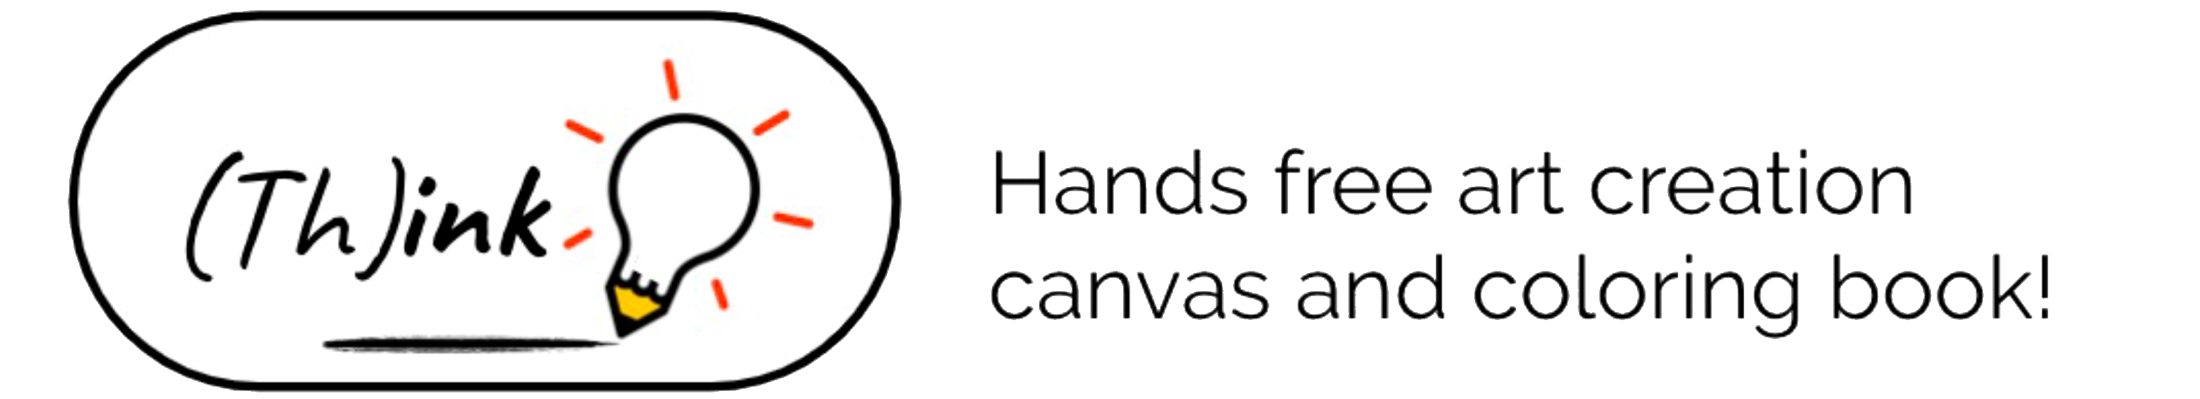
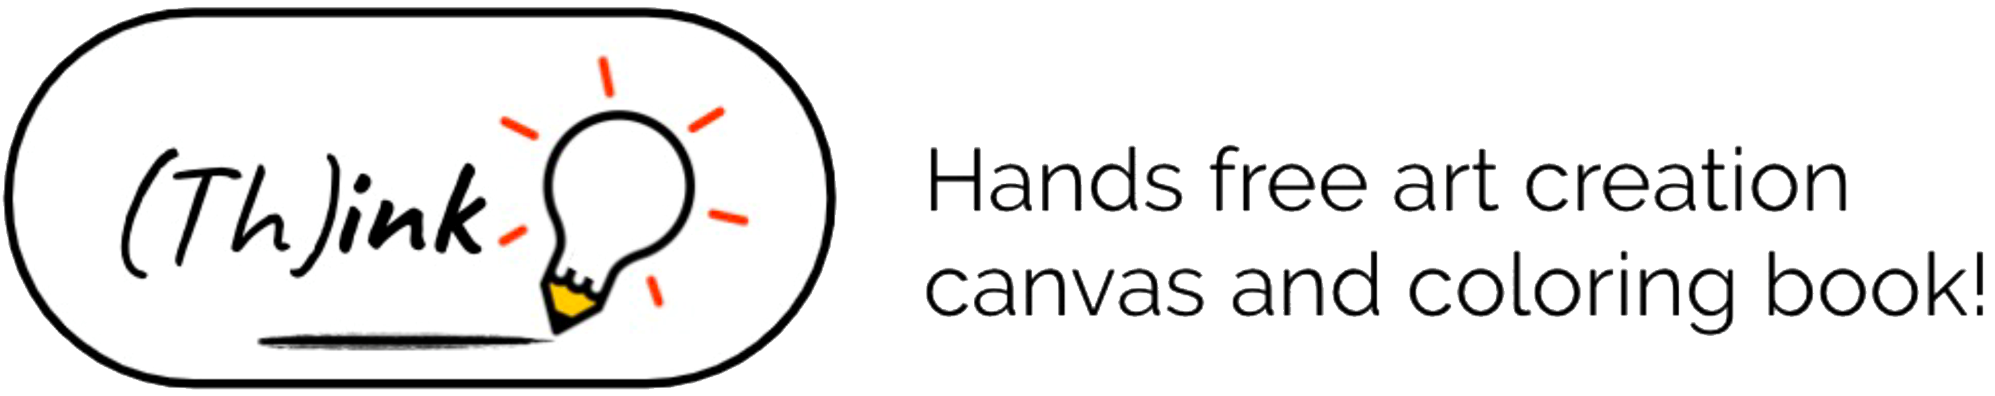
Added Bob Ross and fixed some button formatting

Changed region(s): [[0.0, 0.0, 0.9945, 1.0], [0.2797, 0.1515, 0.3108, 0.2424]]

diff --git a/demo/src/index.js b/demo/src/index.js
@@ -64,12 +64,11 @@ class Demo extends Component {
         {/* <p>Try it out! Draw on this white canvas:</p> */}
         {/* <CanvasDraw onChange={() => console.log("onChange")} /> */}
         <img src="demo/TransparentRounded.png" alt="(Th)ink Logo" 
-        width="70%" height="70%"  
+        width="60%" height="60%"  
         >
           
         </img>
-        <h2>
-        </h2>
+
         {/* <p>
           {" "} */}
           {/* <span>{`<CanvasDraw brushColor={this.state.color} />`}</span>. */}
@@ -161,13 +160,13 @@ class Demo extends Component {
               border: "3px solid #272727",
               float: "right",
               fontSize: "24px",
-              margin: "0px 0px",
+              margin: "160px 0px 10px 0px",
               borderRadius: "10px",
             }}
           >
             Undo
           </button>
-          <div><br></br><br></br><br></br></div>
+          {/* <div><br></br><br></br><br></br></div> */}
 
           {/* <button
             onClick={() => {
@@ -313,7 +312,8 @@ class Demo extends Component {
         <CanvasDraw
           ref={canvasDraw => (this.saveableCanvas = canvasDraw)}
           brushColor={this.state.color} brushRadius={this.state.brushRadius} gridColor={this.state.gridColor} hideGrid={this.state.hideGrid}//"rgba(255,255,0,.50)"
-          //imgSrc="https://upload.wikimedia.org/wikipedia/commons/c/cb/Coloring_kids_games_to_play.png"
+          imgSrc="demo/BWSticker.png"
+          //"https://upload.wikimedia.org/wikipedia/commons/c/cb/Coloring_kids_games_to_play.png"
           
         />
         <div > 
@@ -656,7 +656,7 @@ class Demo extends Component {
               border: "3px solid #272727",
               fontSize: "15px",
               float: "left",
-              margin: "10px 0px",
+              margin: "10px 0px 110px 0px",
               borderRadius: "10px",
             }}
             
